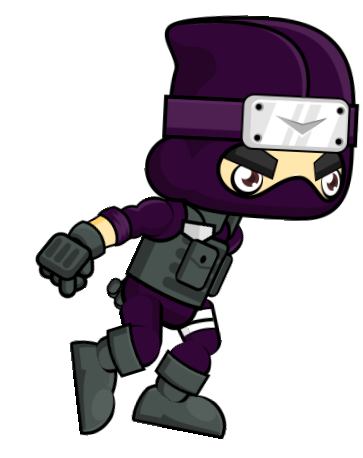
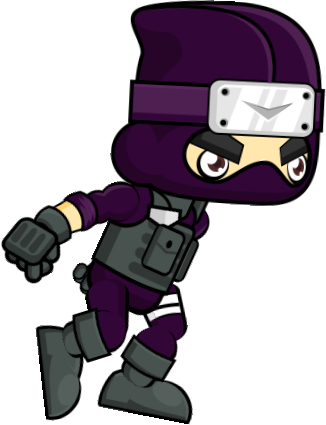
Frames für 2 Player

diff --git a/configuration.py b/configuration.py
@@ -2,7 +2,7 @@ use_menu = True
 text_size_menu = 32
 logo_menu = "res/logo_resized.png"
 
-mp_host = '127.0.0.1'
+mp_host = '10.181.22.157'
 mp_port1 = 10103
 mp_port2 = 10104
 
@@ -38,14 +38,22 @@ movement_speed = 5
 friction = 0.2
 
 #run_frames loading
-run_frames = ["res/Run__000.png","res/Run__001.png","res/Run__002.png","res/Run__003.png","res/Run__004.png",
-              "res/Run__005.png","res/Run__006.png","res/Run__007.png","res/Run__008.png","res/Run__009.png"]
-jump_frames = ["res/Jump__000.png","res/Jump__001.png","res/Jump__002.png","res/Jump__003.png","res/Jump__004.png",
-               "res/Jump__005.png","res/Jump__006.png","res/Jump__007.png","res/Jump__008.png","res/Jump__009.png"]
-idle_frames = ["res/Idle__001.png","res/Idle__002.png","res/Idle__003.png","res/Idle__004.png",
-               "res/Idle__005.png","res/Idle__006.png","res/Idle__007.png","res/Idle__008.png","res/Idle__009.png"]
+run_frames_1 = ["res/Player_1/Run__000.png","res/Player_1/Run__001.png","res/Player_1/Run__002.png","res/Player_1/Run__003.png","res/Player_1/Run__004.png",
+              "res/Player_1/Run__005.png","res/Player_1/Run__006.png","res/Player_1/Run__007.png","res/Player_1/Run__008.png","res/Player_1/Run__009.png"]
+jump_frames_1 = ["res/Player_1/Jump__000.png","res/Player_1/Jump__001.png","res/Player_1/Jump__002.png","res/Player_1/Jump__003.png","res/Player_1/Jump__004.png",
+               "res/Player_1/Jump__005.png","res/Player_1/Jump__006.png","res/Player_1/Jump__007.png","res/Player_1/Jump__008.png","res/Player_1/Jump__009.png"]
+idle_frames_1 = ["res/Player_1/Idle__001.png","res/Player_1/Idle__002.png","res/Player_1/Idle__003.png","res/Player_1/Idle__004.png",
+               "res/Player_1/Idle__005.png","res/Player_1/Idle__006.png","res/Player_1/Idle__007.png","res/Player_1/Idle__008.png","res/Player_1/Idle__009.png"]
 
-player_image = "res/Idle__001.png"
+#run_frames loading
+run_frames_2 = ["res/Player_2/Run__000.png","res/Player_2/Run__001.png","res/Player_2/Run__002.png","res/Player_2/Run__003.png","res/Player_2/Run__004.png",
+              "res/Player_2/Run__005.png","res/Player_2/Run__006.png","res/Player_2/Run__007.png","res/Player_2/Run__008.png","res/Player_2/Run__009.png"]
+jump_frames_2 = ["res/Player_2/Jump__000.png","res/Player_2/Jump__001.png","res/Player_2/Jump__002.png","res/Player_2/Jump__003.png","res/Player_2/Jump__004.png",
+               "res/Player_2/Jump__005.png","res/Player_2/Jump__006.png","res/Player_2/Jump__007.png","res/Player_2/Jump__008.png","res/Player_2/Jump__009.png"]
+idle_frames_2 = ["res/Player_2/Idle__001.png","res/Player_2/Idle__002.png","res/Player_2/Idle__003.png","res/Player_2/Idle__004.png",
+               "res/Player_2/Idle__005.png","res/Player_2/Idle__006.png","res/Player_2/Idle__007.png","res/Player_2/Idle__008.png","res/Player_2/Idle__009.png"]
+
+player_image = "res/Player_1/Idle__001.png"
 player_width = 40
 player_height = 60
 

diff --git a/Player.py b/Player.py
@@ -3,7 +3,12 @@ from configuration import *
 from MoveableObject import *
 
 class Player(MoveableObject):
-  def __init__(self):
+  def __init__(self, order = 1):
+
+    self.idle_frames = idle_frames_1 if order == 1 else idle_frames_2
+    self.run_frames = run_frames_1 if order == 1 else run_frames_2
+    self.jump_frames = jump_frames_l if order == 1 else jump_frames_2
+    
     MoveableObject.__init__(self)
 
     #initialize empty lists
@@ -53,7 +58,7 @@ class Player(MoveableObject):
 
     pos = self.rect.x + self.level.world_shift
 
-    frame = int(pos // 30) % len(self.images_list)
+    frame = int(pos // 5) % len(self.images_list)
     self.image = self.images_list[frame]
     
     
